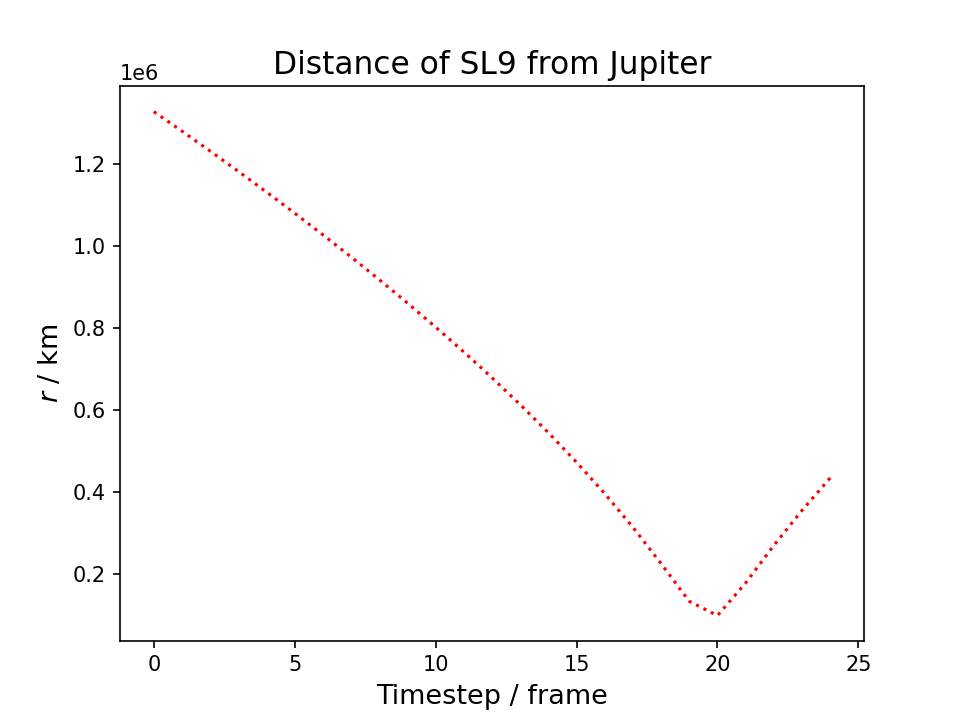
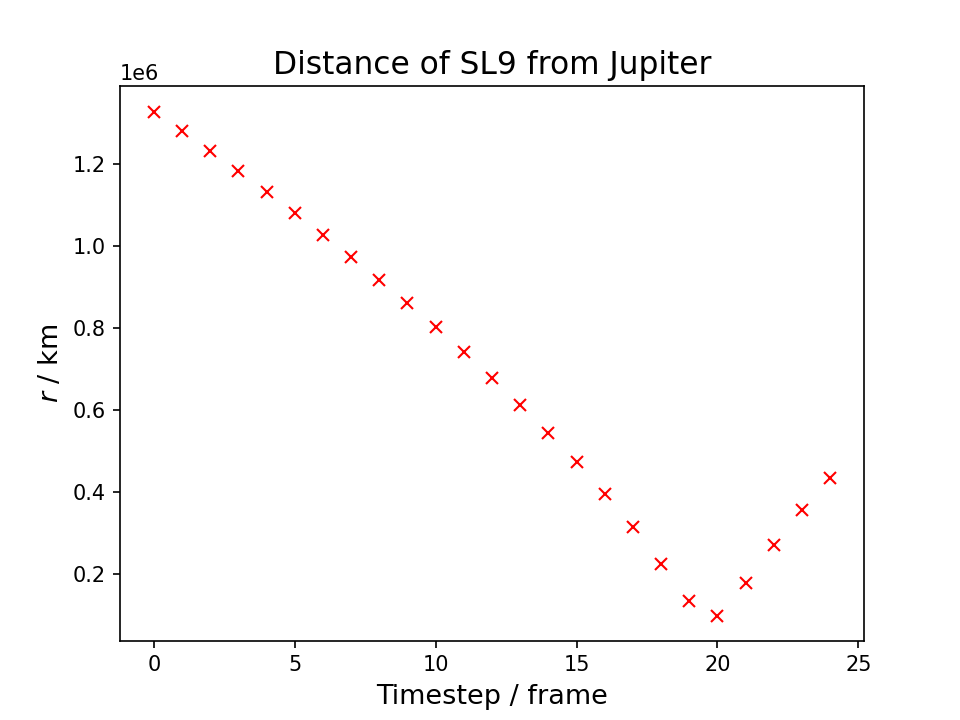
Line to marker

diff --git a/scripts/get_horizons_data.py b/scripts/get_horizons_data.py
@@ -60,7 +60,7 @@ def get_distances():
     with open("./distances.txt", "w", encoding="utf-8") as write_file:
         write_file.writelines("".join(distances))
     timesteps = list(range(len(distances)))
-    plt.plot(timesteps, [float(line.strip("\n")) for line in distances], "r:", label="average")
+    plt.plot(timesteps, [float(line.strip("\n")) for line in distances], "rx", label="average")
     plt.title("Distance of SL9 from Jupiter", fontsize=15)
     plt.ylabel(r"$r$ / km", fontsize=13)
     plt.xlabel(r"Timestep / frame", fontsize=13)
